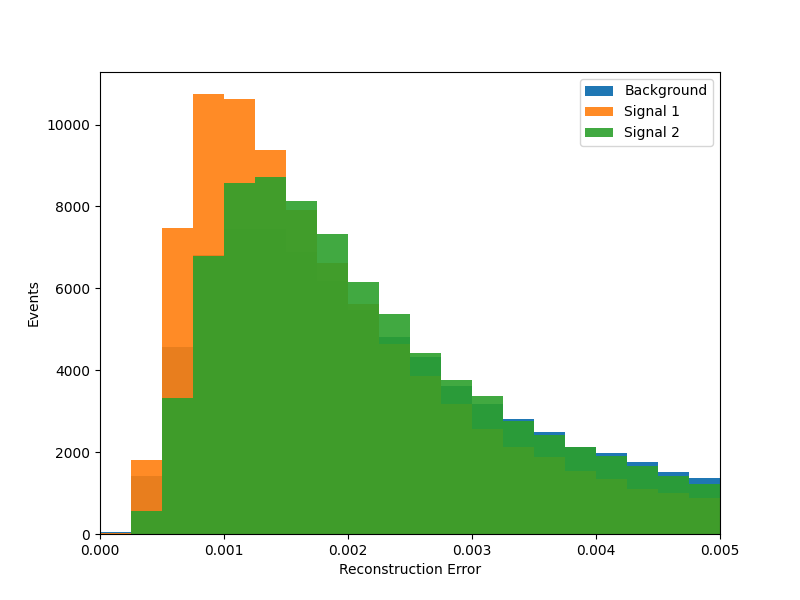
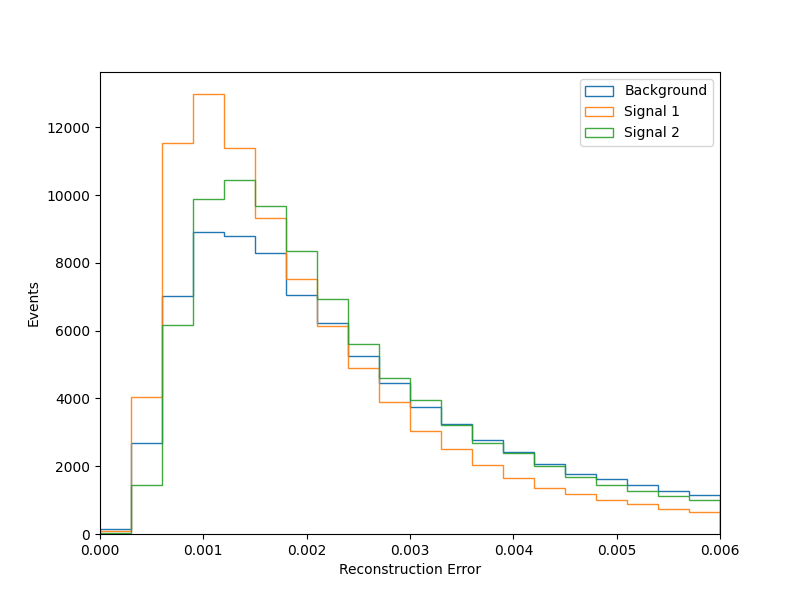
Testing with minmax scaling and 21, 14 layer dimensions

diff --git a/test.py b/test.py
@@ -122,12 +122,12 @@ loss_sig2_total = loss_sig2.sum(axis=1) / 42
 # Plot Total Reconstruction Error
 nbins = 20
 fig, axes = plt.subplots(figsize=(8,6))
-axes.hist([loss_bkg_total], nbins, range=(0, 0.01), density=0, histtype='step', label=['Background'], stacked=True, alpha=1)
-axes.hist([loss_sig1_total], nbins, range=(0, 0.01), density=0, histtype='step', label=['Signal 1'], stacked=True, alpha=0.9)
-axes.hist([loss_sig2_total], nbins, range=(0, 0.01), density=0, histtype='step', label=['Signal 2'], stacked=True, alpha=0.9)
+axes.hist([loss_bkg_total], nbins, range=(0, 0.006), density=0, histtype='step', label=['Background'], stacked=True, alpha=1)
+axes.hist([loss_sig1_total], nbins, range=(0, 0.006), density=0, histtype='step', label=['Signal 1'], stacked=True, alpha=0.9)
+axes.hist([loss_sig2_total], nbins, range=(0, 0.006), density=0, histtype='step', label=['Signal 2'], stacked=True, alpha=0.9)
 axes.set_xlabel(r"Reconstruction Error")
 axes.set_ylabel("Events")
-axes.set_xlim(0, 0.01)
+axes.set_xlim(0, 0.006)
 axes.legend(loc='upper right')
 fig.savefig(f"figs/testing/reconstruction_error_{scale}_{mid_dim}_{latent_dim}.png")
 
